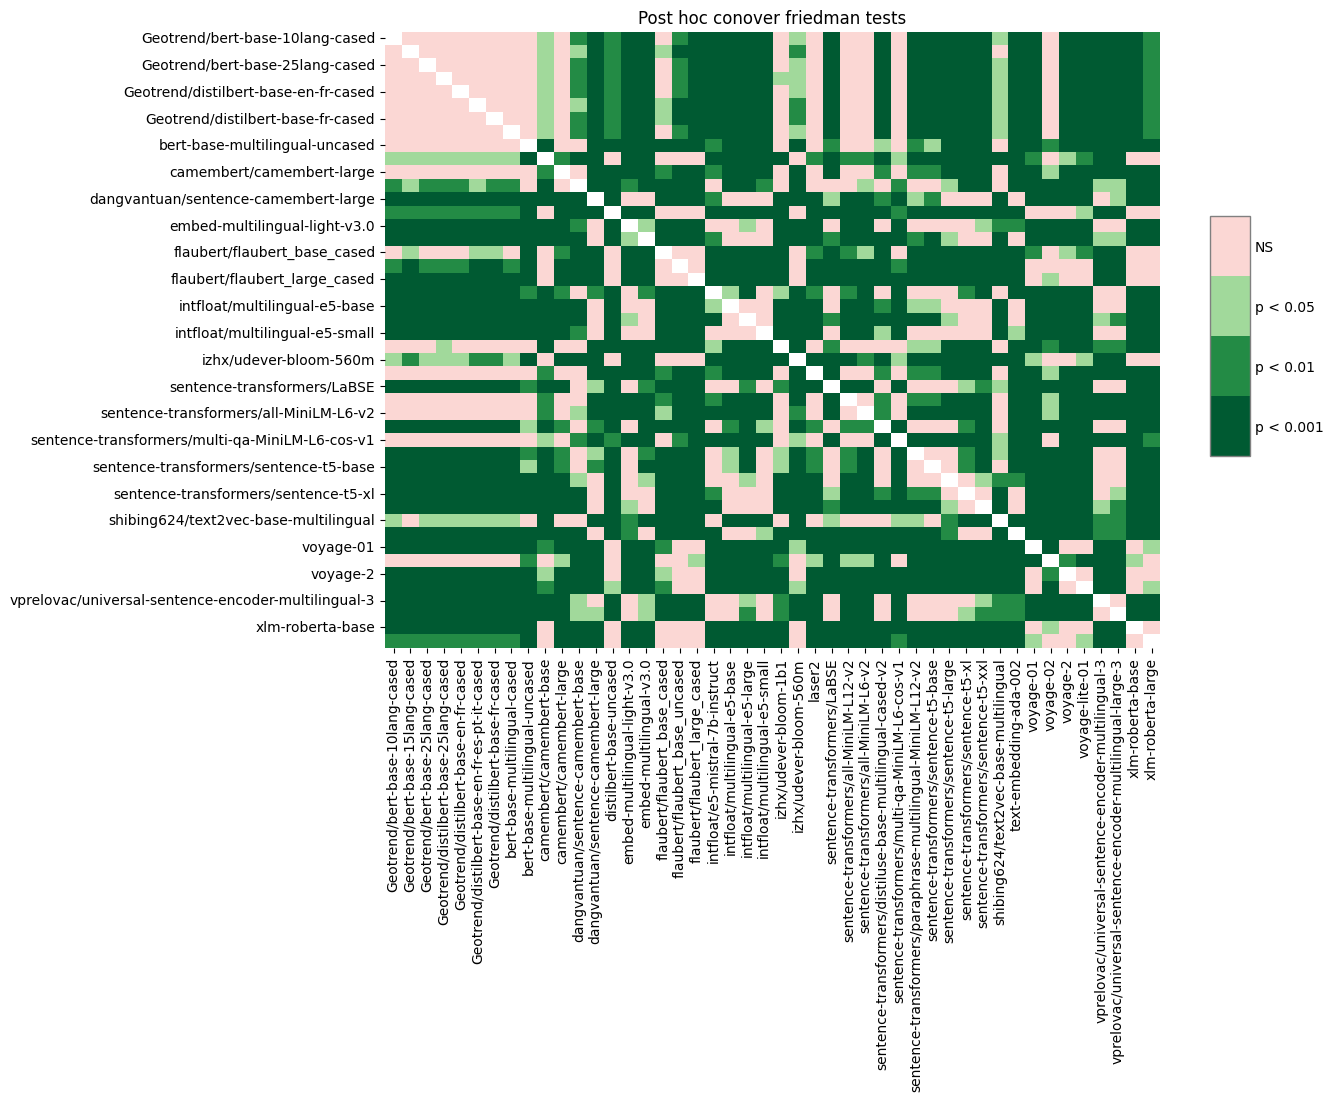
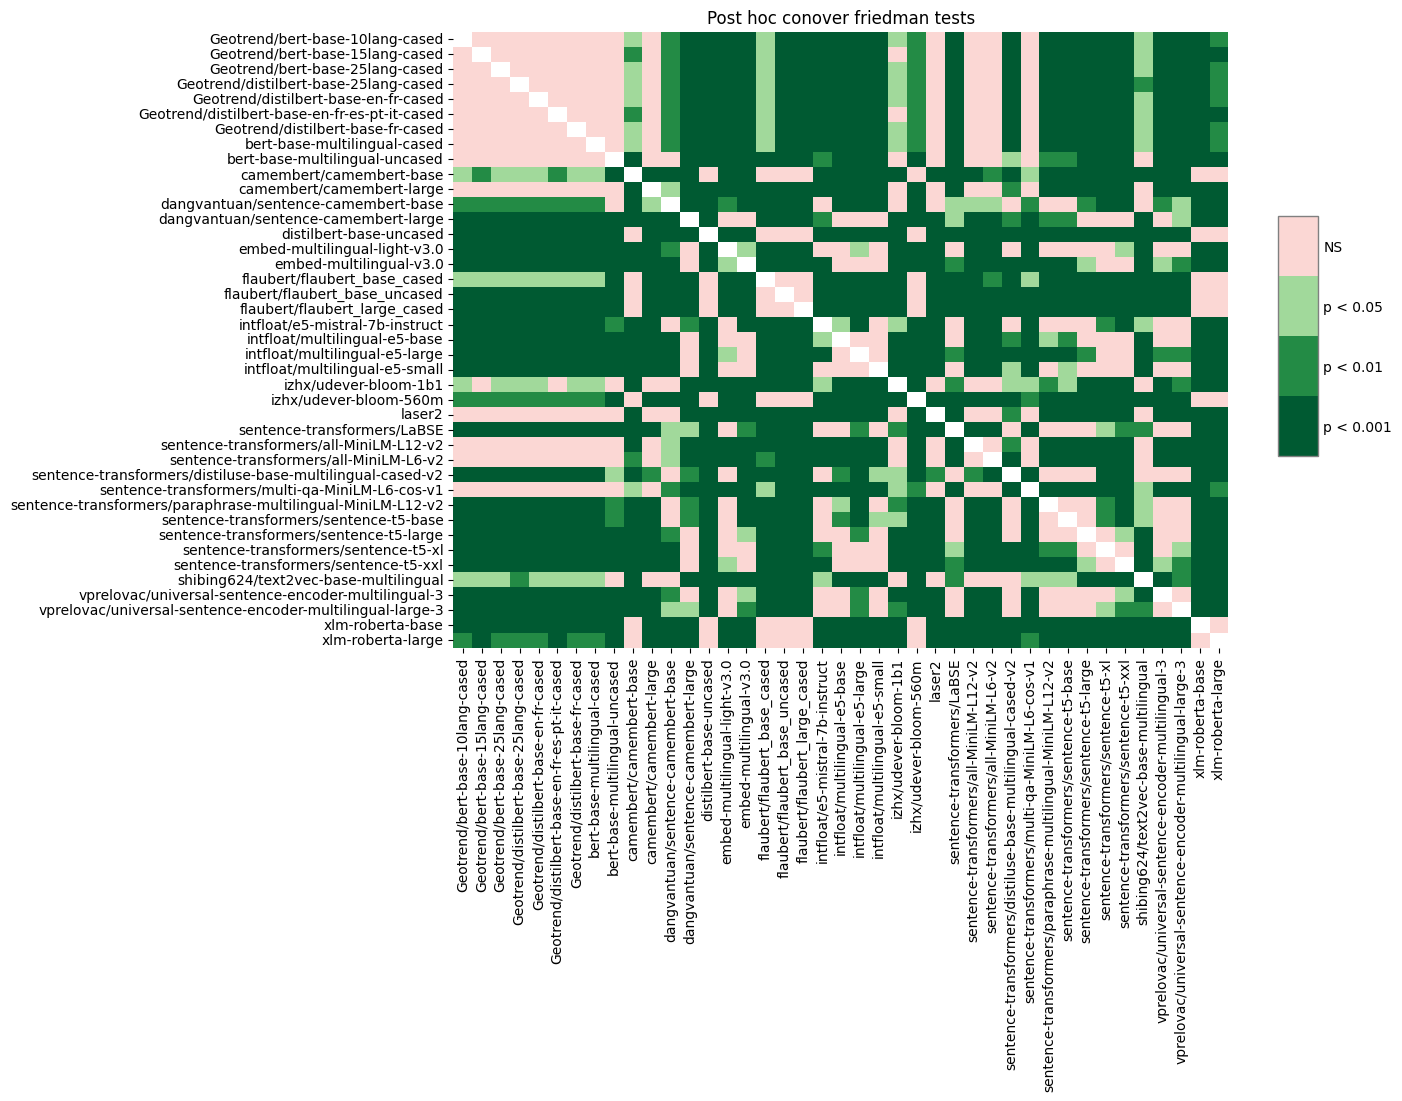
updating script to remove nan and change order

Changed region(s): [[0.0, 0.0, 0.9842, 0.9882]]

diff --git a/script_mteb_french/results_analysis/statistical_tests.py b/script_mteb_french/results_analysis/statistical_tests.py
@@ -29,6 +29,7 @@ def parse_args() -> Namespace:
 def run_statistical_tests(data: pd.DataFrame, output_path: str):
     results_lists = list(data.values[:, 1:])
     friedman_stats = friedmanchisquare(*results_lists)
+    print(f"Running friedman test on {len(results_lists)} models...")
     if friedman_stats.pvalue < 0.05:
         print(
             f"There is a significant difference between the models (p-value: {friedman_stats.pvalue}). Running post-hoc tests..."
@@ -36,7 +37,7 @@ def run_statistical_tests(data: pd.DataFrame, output_path: str):
         data_melted = data.melt(id_vars="model", var_name="dataset", value_name="score")
         avg_rank = (
             data_melted.groupby("dataset")
-            .score.rank(pct=True)
+            .score.rank(pct=True, ascending=False)
             .groupby(data_melted.model)
             .mean()
         )
@@ -66,8 +67,6 @@ if __name__ == "__main__":
     args = parse_args()
     rp = ResultsParser()
     results_df = rp(args.results_folder, return_main_scores=False)
-    # this should not be necessary with final csv
-    results_df = results_df.fillna(0)
     results_df = results_df.drop(
         columns=[
             ("BitextMining", "DiaBLaBitextMining"),
@@ -79,4 +78,6 @@ if __name__ == "__main__":
     results_df["model"] = results_df["model"].apply(
         lambda x: x.replace(args.results_folder, "")
     )
+    # this should not be necessary with final csv
+    results_df = results_df.dropna(axis=1, how='all').dropna(axis=0, how='any')
     run_statistical_tests(results_df, args.output_folder)
